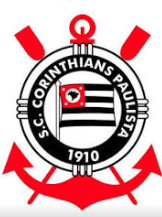
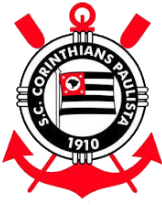
Transmissao consultada 1 dia antes do jogo, streaming e escudo sem borda
- Gatilho da transmissao em src/lib/agenda.js: consulta exatamente 1 dia antes do jogo do
  Corinthians (reforco no dia do jogo se nao confirmou); scripts/transmissao-do-dia.mjs
- Novos campos streaming e tvConsultadaEm em liga.jogos; a tela mostra "a confirmar" ate
  a consulta do dia anterior e exibe TV e streaming
- Escudo recortado de verdade: fundo transparente, sem faixa cinza nem nevoa de compressao
- Tarefa diaria so consulta a transmissao quando o gatilho manda

diff --git a/src/lib/agenda.test.js b/src/lib/agenda.test.js
@@ -1,0 +1,78 @@
+import test from 'node:test';
+import assert from 'node:assert';
+import { ESTADO_EMBUTIDO, validarEstado } from './estado.js';
+import { somaDias, transmissaoConfirmada, transmissaoAConsultar } from './agenda.js';
+import { transmissaoDosAbertos } from './analise.js';
+import { atualizarAgenda } from './aplicar.js';
+import { clone } from './_fixtures.js';
+
+const consultar = (estado, hoje) => transmissaoAConsultar(estado, hoje).map((x) => `R${x.rodada}`);
+
+test('somaDias: virada de mês, de ano e ano bissexto', () => {
+  assert.strictEqual(somaDias('2026-10-31', 1), '2026-11-01');
+  assert.strictEqual(somaDias('2026-12-31', 1), '2027-01-01');
+  assert.strictEqual(somaDias('2028-02-28', 1), '2028-02-29');
+  assert.strictEqual(somaDias('2026-10-11', -1), '2026-10-10');
+});
+
+test('gatilho: a transmissão é consultada exatamente 1 dia antes do jogo', () => {
+  // Palmeiras x Corinthians é em 2026-10-11
+  assert.deepStrictEqual(consultar(ESTADO_EMBUTIDO, '2026-10-09'), []); // 2 dias antes: ainda não
+  assert.deepStrictEqual(consultar(ESTADO_EMBUTIDO, '2026-10-10'), ['R30']); // 1 dia antes: SIM
+  assert.strictEqual(transmissaoAConsultar(ESTADO_EMBUTIDO, '2026-10-10')[0].motivo, 'um dia antes do jogo');
+});
+
+test('gatilho: no dia do jogo só reforça se a consulta de ontem não confirmou', () => {
+  assert.deepStrictEqual(consultar(ESTADO_EMBUTIDO, '2026-10-11'), ['R30']);
+  assert.match(transmissaoAConsultar(ESTADO_EMBUTIDO, '2026-10-11')[0].motivo, /reforço/);
+  const feito = atualizarAgenda(ESTADO_EMBUTIDO, [{ rodada: 30, mandante: 'Palmeiras', visitante: 'Corinthians', tvConsultadaEm: '2026-10-10' }]);
+  assert.deepStrictEqual(consultar(feito, '2026-10-11'), []);
+  assert.deepStrictEqual(consultar(feito, '2026-10-10'), []); // não consulta duas vezes
+});
+
+test('gatilho: só jogos do Corinthians e só em 1 dia', () => {
+  // 10/10 tem Vasco x Remo e São Paulo x Vitória (não são do Corinthians); em 09/10 consulta 0
+  assert.deepStrictEqual(consultar(ESTADO_EMBUTIDO, '2026-10-09'), []);
+  assert.deepStrictEqual(consultar(ESTADO_EMBUTIDO, '2026-10-18'), ['R31']);
+  assert.deepStrictEqual(consultar(ESTADO_EMBUTIDO, '2026-10-17'), []);
+  assert.deepStrictEqual(consultar(ESTADO_EMBUTIDO, '2026-10-20'), []);
+});
+
+test('gatilho: jogo sem data não dispara', () => {
+  const e = clone(ESTADO_EMBUTIDO);
+  e.liga.jogos.forEach((g) => { g.data = null; });
+  assert.deepStrictEqual(consultar(e, '2026-10-10'), []);
+});
+
+test('transmissaoConfirmada: vale se consultada a partir do dia anterior', () => {
+  assert.strictEqual(transmissaoConfirmada({ data: '2026-10-11', tvConsultadaEm: '2026-10-10' }), true);
+  assert.strictEqual(transmissaoConfirmada({ data: '2026-10-11', tvConsultadaEm: '2026-10-11' }), true);
+  assert.strictEqual(transmissaoConfirmada({ data: '2026-10-11', tvConsultadaEm: '2026-10-09' }), false); // cedo demais
+  assert.strictEqual(transmissaoConfirmada({ data: '2026-10-11', tvConsultadaEm: null }), false);
+  assert.strictEqual(transmissaoConfirmada({ data: null, tvConsultadaEm: '2026-10-10' }), false);
+});
+
+test('jogo remarcado para depois: a consulta antiga deixa de valer e o novo dia anterior dispara', () => {
+  let e = atualizarAgenda(ESTADO_EMBUTIDO, [{ rodada: 31, mandante: 'Corinthians', visitante: 'Vitória', tvConsultadaEm: '2026-10-18', tv: 'SporTV', streaming: 'Premiere' }]);
+  assert.deepStrictEqual(consultar(e, '2026-10-18'), []);
+  e = atualizarAgenda(e, [{ rodada: 31, mandante: 'Corinthians', visitante: 'Vitória', data: '2026-10-22' }]); // remarcado
+  assert.strictEqual(transmissaoDosAbertos(e)[1].confirmada, false);
+  assert.deepStrictEqual(consultar(e, '2026-10-21'), ['R31']);
+});
+
+test('transmissão confirmada e streaming chegam à tela', () => {
+  const e = atualizarAgenda(
+    ESTADO_EMBUTIDO,
+    [{ rodada: 30, mandante: 'Palmeiras', visitante: 'Corinthians', hora: '17:30', tv: 'Globo', streaming: 'Globoplay, Premiere', tvConsultadaEm: '2026-10-10' }],
+    '2026-10-10'
+  );
+  assert(validarEstado(e).ok);
+  assert.deepStrictEqual(transmissaoDosAbertos(e)[0], { data: '2026-10-11', hora: '17:30', tv: 'Globo', streaming: 'Globoplay, Premiere', confirmada: true });
+});
+
+test('validação recusa streaming e tvConsultadaEm inválidos', () => {
+  const a = clone(ESTADO_EMBUTIDO); a.liga.jogos[0].streaming = '';
+  assert.match(validarEstado(a).erros.join(' '), /streaming inválido/);
+  const b = clone(ESTADO_EMBUTIDO); b.liga.jogos[0].tvConsultadaEm = 'ontem';
+  assert.match(validarEstado(b).erros.join(' '), /tvConsultadaEm inválida/);
+});

diff --git a/src/App.jsx b/src/App.jsx
@@ -17,16 +17,18 @@ const brData = (iso) => iso.split('-').reverse().join('/');
 
 const DIAS = ['dom', 'seg', 'ter', 'qua', 'qui', 'sex', 'sáb'];
 
-/** Data, horário e emissora de um jogo, em duas linhas curtas. Falta de dado vira "a definir". */
+/**
+ * Data/horário, TV e streaming de um jogo, em até 3 linhas curtas. Falta de dado vira "a definir";
+ * o que ainda não foi consultado no dia anterior ao jogo aparece como "a confirmar".
+ */
 function formatarTransmissao(t) {
-  if (!t || !t.data) return { quando: 'data a definir', tv: null };
+  if (!t || !t.data) return { quando: 'data a definir', tv: 'TV a definir', streaming: null };
   const [a, m, d] = t.data.split('-');
   const dia = DIAS[new Date(Number(a), Number(m) - 1, Number(d)).getDay()];
-  const quando = `${dia} ${d}/${m}${t.hora ? ` · ${t.hora.replace(':', 'h')}` : ''}`;
-  let tv;
-  if (t.tv) tv = t.hora ? t.tv : `horário a definir · ${t.tv}`;
-  else tv = t.hora ? 'TV a definir' : 'horário e TV a definir';
-  return { quando, tv };
+  const quando = `${dia} ${d}/${m} · ${t.hora ? t.hora.replace(':', 'h') : 'horário a definir'}`;
+  const tv = t.tv ? `TV ${t.tv}${t.confirmada ? '' : ' · a confirmar'}` : 'TV a definir';
+  const streaming = t.streaming ? `Streaming ${t.streaming}${t.confirmada ? '' : ' · a confirmar'}` : null;
+  return { quando, tv, streaming };
 }
 
 function Arrow({ className = '' }) {
@@ -224,8 +226,8 @@ export default function App() {
         </div>
         <div className="max-w-6xl mx-auto px-4 md:px-8 py-3 flex items-center justify-between border-b-[3px] border-ink">
           <div className="flex items-center gap-3">
-            {/* O fundo branco do escudo se funde ao creme da página (multiply) */}
-            <img src={escudo} alt="Escudo do Corinthians" className="h-12 w-auto mix-blend-multiply" />
+            {/* Escudo com fundo transparente: assenta direto no creme da página */}
+            <img src={escudo} alt="Escudo do Corinthians" className="h-12 w-auto" />
             <h1 className="text-h2 tracking-wider">Calculadora da Fiel</h1>
           </div>
           <button
@@ -327,7 +329,8 @@ export default function App() {
                         return (
                           <div className="text-right text-caption leading-tight min-w-0" data-testid="transmissao">
                             <div>{t.quando}</div>
-                            {t.tv && <div className="text-ink-soft">{t.tv}</div>}
+                            <div className="text-ink-soft">{t.tv}</div>
+                            {t.streaming && <div className="text-ink-soft">{t.streaming}</div>}
                           </div>
                         );
                       })()}

diff --git a/src/lib/agenda.js b/src/lib/agenda.js
@@ -1,0 +1,40 @@
+import { CLUBE } from './estado.js';
+
+/**
+ * Regra da transmissão (data, horário, TV e streaming):
+ * ela é consultada na web EXATAMENTE UM DIA ANTES de cada jogo do Corinthians. Esse é o gatilho.
+ * Antes disso, o que aparece na tela é preliminar ("a confirmar").
+ * Reforço: se a consulta do dia anterior falhou (nada encontrado, computador desligado),
+ * tenta de novo no dia do jogo.
+ */
+
+/** Soma `n` dias a uma data AAAA-MM-DD (sem fuso: cálculo em UTC). */
+export function somaDias(iso, n) {
+  const [a, m, d] = iso.split('-').map(Number);
+  return new Date(Date.UTC(a, m - 1, d + n)).toISOString().slice(0, 10);
+}
+
+/** A transmissão do jogo foi consultada a partir do dia anterior a ele? */
+export function transmissaoConfirmada(jogo) {
+  if (!jogo.data || !jogo.tvConsultadaEm) return false;
+  return jogo.tvConsultadaEm >= somaDias(jogo.data, -1);
+}
+
+/**
+ * Jogos do Corinthians cuja transmissão deve ser consultada hoje.
+ * @param estado conteúdo de estado.json
+ * @param hoje   'AAAA-MM-DD' (data local do computador)
+ * @returns [{rodada, mandante, visitante, data, motivo}]
+ */
+export function transmissaoAConsultar(estado, hoje) {
+  const amanha = somaDias(hoje, 1);
+  return estado.liga.jogos
+    .filter((g) => (g.mandante === CLUBE || g.visitante === CLUBE) && g.data)
+    .filter((g) => !transmissaoConfirmada(g))
+    .flatMap((g) => {
+      if (g.data === amanha) return [{ rodada: g.rodada, mandante: g.mandante, visitante: g.visitante, data: g.data, motivo: 'um dia antes do jogo' }];
+      if (g.data === hoje) return [{ rodada: g.rodada, mandante: g.mandante, visitante: g.visitante, data: g.data, motivo: 'reforço no dia do jogo (a consulta de ontem não confirmou)' }];
+      return [];
+    })
+    .sort((a, b) => a.rodada - b.rodada);
+}

diff --git a/src/lib/realista.test.js b/src/lib/realista.test.js
@@ -81,10 +81,10 @@ test('cenário realista sem jogos abertos devolve vazio', () => {
 test('transmissão: data, hora e TV alinhadas com os jogos abertos', () => {
   const t = transmissaoDosAbertos(ESTADO_EMBUTIDO);
   assert.strictEqual(t.length, 9);
-  assert.deepStrictEqual(t[0], { data: '2026-10-11', hora: '17:30', tv: 'Globo' }); // Palmeiras x Corinthians
-  assert.deepStrictEqual(t[1], { data: '2026-10-19', hora: '20:00', tv: 'SporTV' }); // Corinthians x Vitória
-  assert.deepStrictEqual(t[4], { data: '2026-11-04', hora: '21:30', tv: null }); // São Paulo x Corinthians
-  assert.deepStrictEqual(t[6], { data: '2026-11-20', hora: '21:00', tv: null }); // Atlético Mineiro x Corinthians
+  assert.deepStrictEqual(t[0], { data: '2026-10-11', hora: '17:30', tv: 'Globo', streaming: null, confirmada: false }); // Palmeiras x Corinthians
+  assert.deepStrictEqual(t[1], { data: '2026-10-19', hora: '20:00', tv: 'SporTV', streaming: null, confirmada: false }); // Corinthians x Vitória
+  assert.deepStrictEqual(t[4], { data: '2026-11-04', hora: '21:30', tv: null, streaming: null, confirmada: false }); // São Paulo x Corinthians
+  assert.deepStrictEqual(t[6], { data: '2026-11-20', hora: '21:00', tv: null, streaming: null, confirmada: false }); // Atlético Mineiro x Corinthians
   assert(t.every((x) => /^\d{4}-\d{2}-\d{2}$/.test(x.data)));
 });
 

diff --git a/src/lib/analise.js b/src/lib/analise.js
@@ -1,5 +1,6 @@
 import { CLUBE } from './estado.js';
 import { simular, pontosParaRisco, probabilidadesDoJogo } from './simulacao.js';
+import { transmissaoConfirmada } from './agenda.js';
 
 /** Risco abaixo do qual a situação é "confortável" e a partir do qual é "zona de perigo". */
 export const LIMITE_CONFORTAVEL = 0.1;
@@ -69,13 +70,21 @@ export function formatDistanciaLabel(pontos, situacao) {
 }
 
 /**
- * Data, horário e emissora dos jogos ABERTOS do Corinthians, na mesma ordem dos jogos abertos
- * de estado.jogos. Campos ausentes vêm como null (a tela mostra "a definir").
+ * Data, horário, emissora e streaming dos jogos ABERTOS do Corinthians, na mesma ordem dos jogos
+ * abertos de estado.jogos. Campos ausentes vêm como null (a tela mostra "a definir").
+ * `confirmada` = a transmissão já foi consultada no dia anterior ao jogo (ver tvConsultadaEm);
+ * antes disso o que aparece é preliminar.
  */
 export function transmissaoDosAbertos(estado) {
   return fixturesDoClube(estado).map((i) => {
     const g = estado.liga.jogos[i];
-    return { data: g.data ?? null, hora: g.hora ?? null, tv: g.tv ?? null };
+    return {
+      data: g.data ?? null,
+      hora: g.hora ?? null,
+      tv: g.tv ?? null,
+      streaming: g.streaming ?? null,
+      confirmada: transmissaoConfirmada(g),
+    };
   });
 }
 

diff --git a/src/lib/aplicar.js b/src/lib/aplicar.js
@@ -59,15 +59,17 @@ export function aplicarResultados(estado, resultados, hoje) {
 }
 
 /**
- * Atualiza data/hora/emissora de jogos que ainda faltam (a CBF e as emissoras remarcam).
- * @param agenda [{rodada, mandante, visitante, data?, hora?, tv?}] (só os campos presentes mudam)
+ * Atualiza data/hora/emissora/streaming de jogos que ainda faltam (a CBF e as emissoras remarcam).
+ * `tvConsultadaEm` registra o dia em que a transmissão foi consultada (regra: 1 dia antes do jogo).
+ * @param agenda [{rodada, mandante, visitante, data?, hora?, tv?, streaming?, tvConsultadaEm?}]
+ *               (só os campos presentes mudam)
  */
 export function atualizarAgenda(estado, agenda, hoje) {
   const novo = clone(estado);
   for (const a of agenda) {
     const g = novo.liga.jogos.find((x) => x.rodada === a.rodada && x.mandante === a.mandante && x.visitante === a.visitante);
     if (!g) throw new Error(`agenda: jogo R${a.rodada} ${a.mandante} x ${a.visitante} não está entre os jogos restantes`);
-    for (const campo of ['data', 'hora', 'tv']) if (a[campo] !== undefined) g[campo] = a[campo];
+    for (const campo of ['data', 'hora', 'tv', 'streaming', 'tvConsultadaEm']) if (a[campo] !== undefined) g[campo] = a[campo];
   }
   if (hoje) novo.atualizadoEm = hoje;
   return novo;

diff --git a/src/lib/estado.js b/src/lib/estado.js
@@ -72,6 +72,9 @@ function validarLiga(e, erro) {
     if (g.data !== undefined && g.data !== null && !ehData(g.data)) erro(`${nome}: data inválida`);
     if (g.hora !== undefined && g.hora !== null && !/^([01][0-9]|2[0-3]):[0-5][0-9]$/.test(g.hora)) erro(`${nome}: hora inválida (use HH:MM)`);
     if (g.tv !== undefined && g.tv !== null && (typeof g.tv !== 'string' || !g.tv.trim())) erro(`${nome}: tv inválida`);
+    if (g.streaming !== undefined && g.streaming !== null && (typeof g.streaming !== 'string' || !g.streaming.trim())) erro(`${nome}: streaming inválido`);
+    // Dia em que a transmissão foi consultada (regra: 1 dia antes do jogo); sem isso a tela mostra "a confirmar"
+    if (g.tvConsultadaEm !== undefined && g.tvConsultadaEm !== null && !ehData(g.tvConsultadaEm)) erro(`${nome}: tvConsultadaEm inválida`);
   });
   tabela.forEach((t) => {
     if (restantes.has(t.clube) && t.j + restantes.get(t.clube) !== TOTAL_RODADAS) {

diff --git a/README.md b/README.md
@@ -46,9 +46,15 @@ tabela da fonte, rodada realmente terminada, posição coerente). Depois valida
 `src/lib/estado-embutido.json` é uma cópia de `public/estado.json` usada se o arquivo não
 carregar; é sincronizada sozinha antes de `dev`, `build` e `test`.
 
-Cada jogo restante mostra data, horário e emissora (campos `data`, `hora` e `tv` de
-`liga.jogos`); o que ainda não foi definido aparece como "a definir". A tarefa diária também
-mantém essa agenda em dia (remarcações, TV definida).
+Cada jogo restante mostra data, horário, TV e streaming (campos `data`, `hora`, `tv` e
+`streaming` de `liga.jogos`); o que ainda não foi definido aparece como "a definir".
+
+**Gatilho da transmissão:** horário, TV e streaming são consultados na web **exatamente um dia
+antes de cada jogo do Corinthians**. Quem decide o que consultar hoje é o código, não o agente:
+`node scripts/transmissao-do-dia.mjs` (regra em `src/lib/agenda.js`). Se a consulta do dia
+anterior não confirmar, há um reforço no dia do jogo. Enquanto o jogo não foi consultado no dia
+anterior (`tvConsultadaEm`), a tela mostra a TV como "a confirmar". Remarcações de data são
+percebidas na leitura do calendário e entram sem marcar a transmissão como confirmada.
 
 ## Cenários
 
